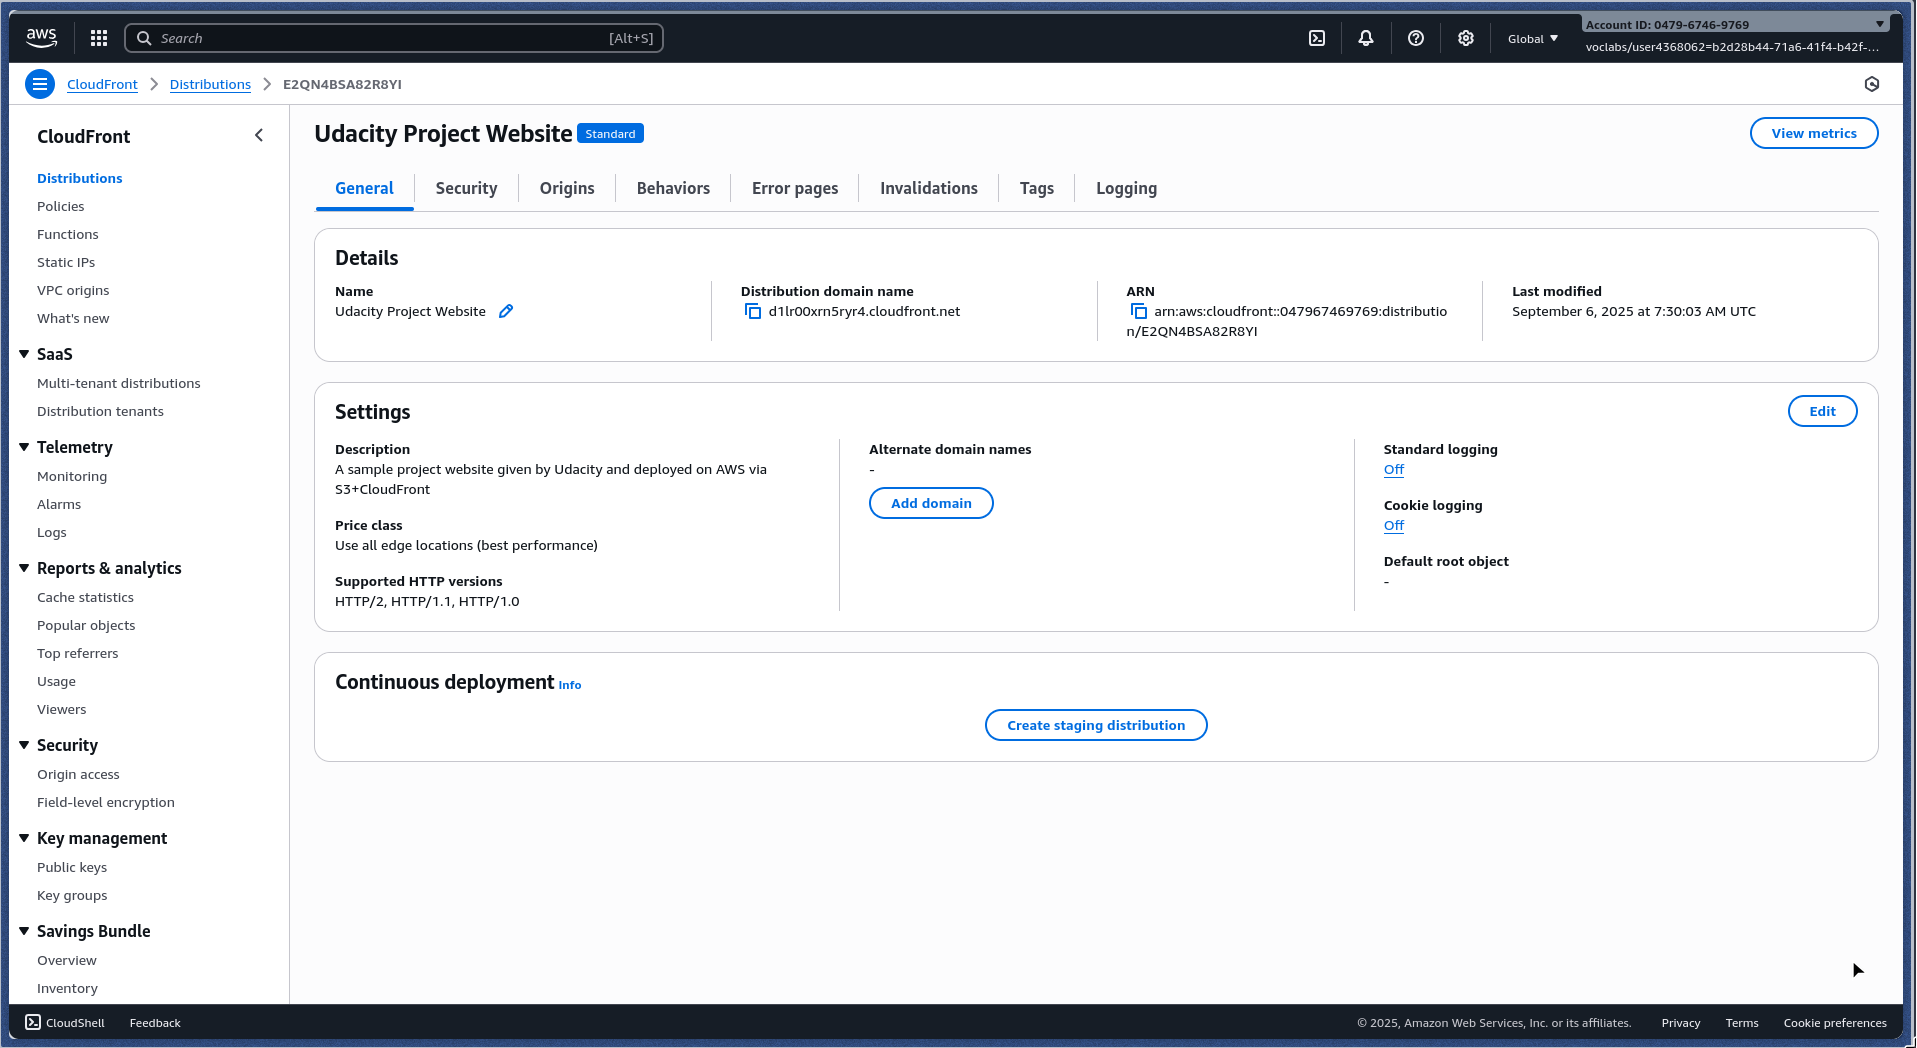
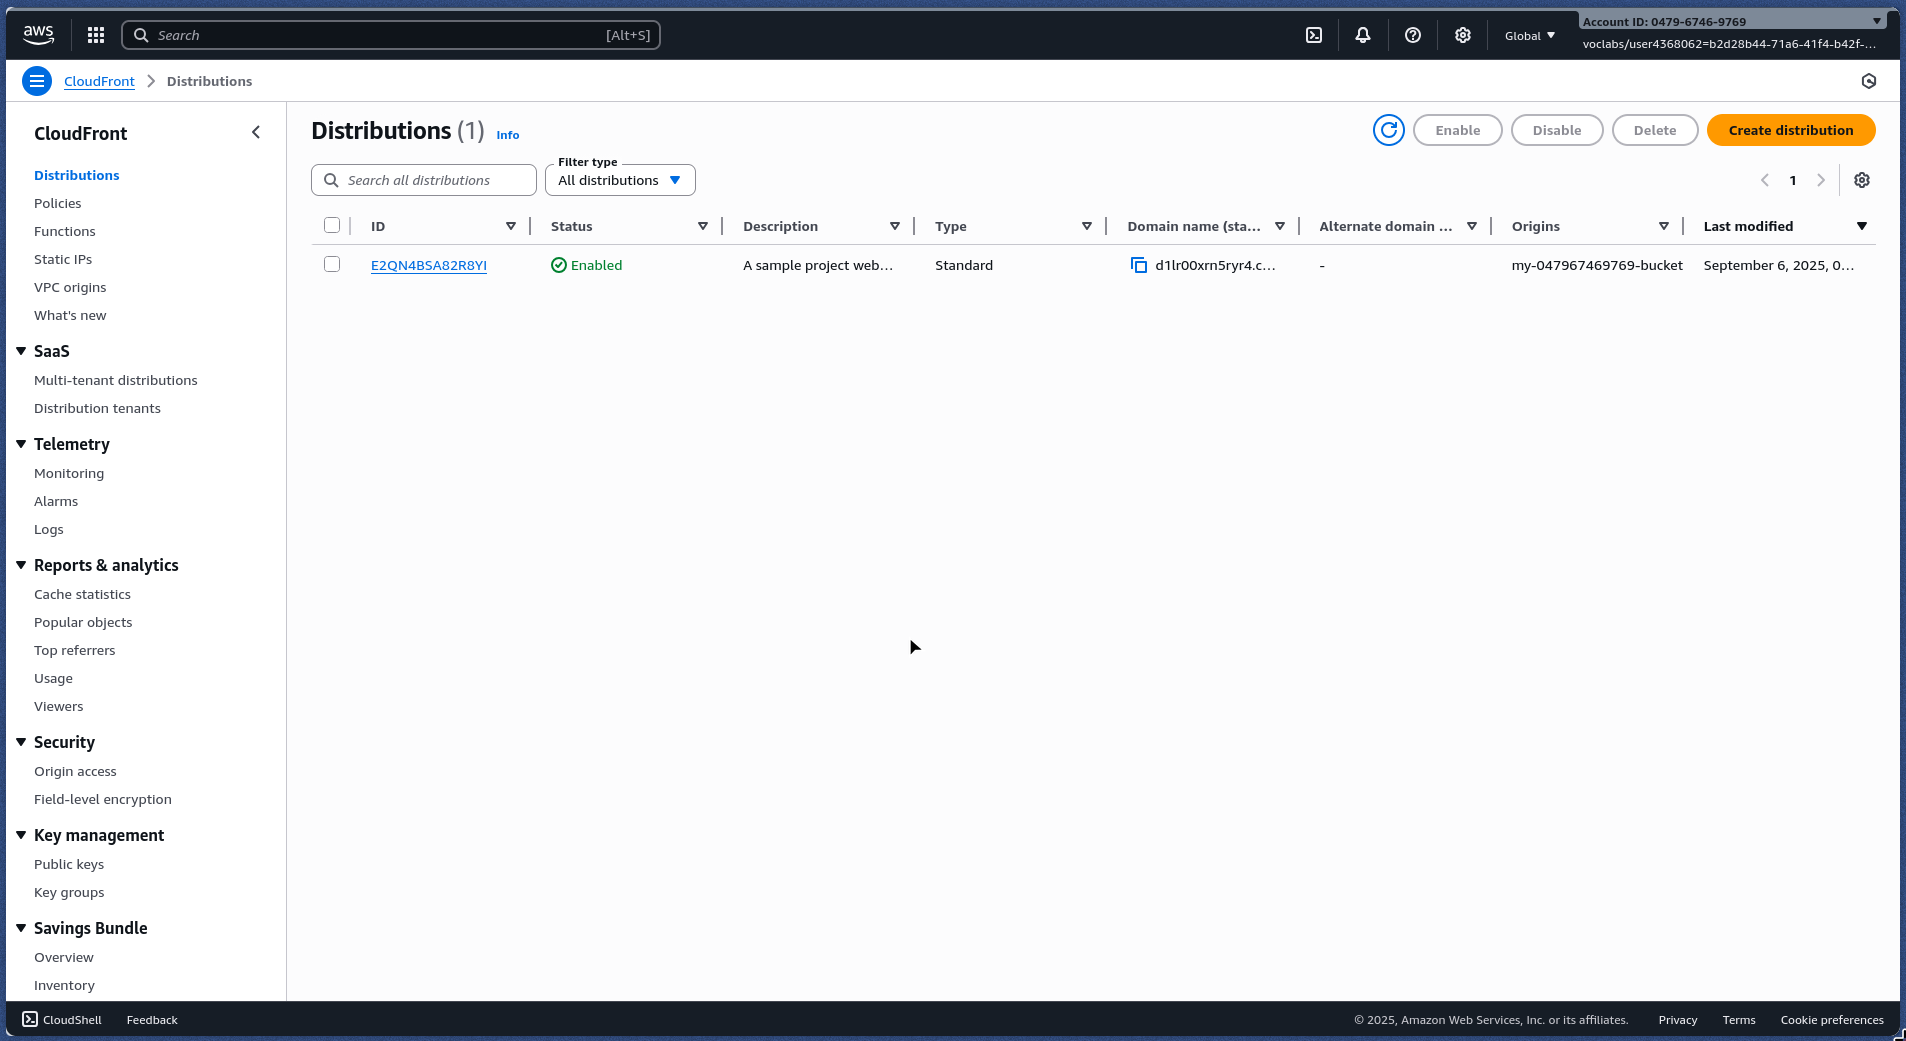
Add more details to the README

diff --git a/README.md b/README.md
@@ -4,10 +4,16 @@
 
 **Website-Endpoint URL:** [my-047967469769-bucket.s3-website-us-east-1.amazonaws.com/](http://my-047967469769-bucket.s3-website-us-east-1.amazonaws.com/)
 
+## ABOUT THE PROJECT 
+
+Amazon Web Services or AWS is a popular cloud service that in itself provides numerous services. This is a simple project where we host a Static Web Site using AWS. In this small project, we create an S3 Bucket and store our static web site files in it. We then expose this bucket by allowing the static web hosting property provided by AWS for S3 Buckets. After that, we use CloudFront, another popular service provided by AWS, to distribute the website.
+
 
 ## SCREENSHOTS
 
 ### S3 Bucket 
+
+![S3 Bucket](./screenshots/s3-bucket.png)
 
 #### All Files 
 
@@ -24,6 +30,10 @@
 ### CloudFront 
 
 ![CloudFront](./screenshots/cloudfront.png)
+
+#### Detailed Overview 
+
+![CloudFront details](./screenshots/cloudfront-details.png)
 
 ### Website running in the browser 
 
